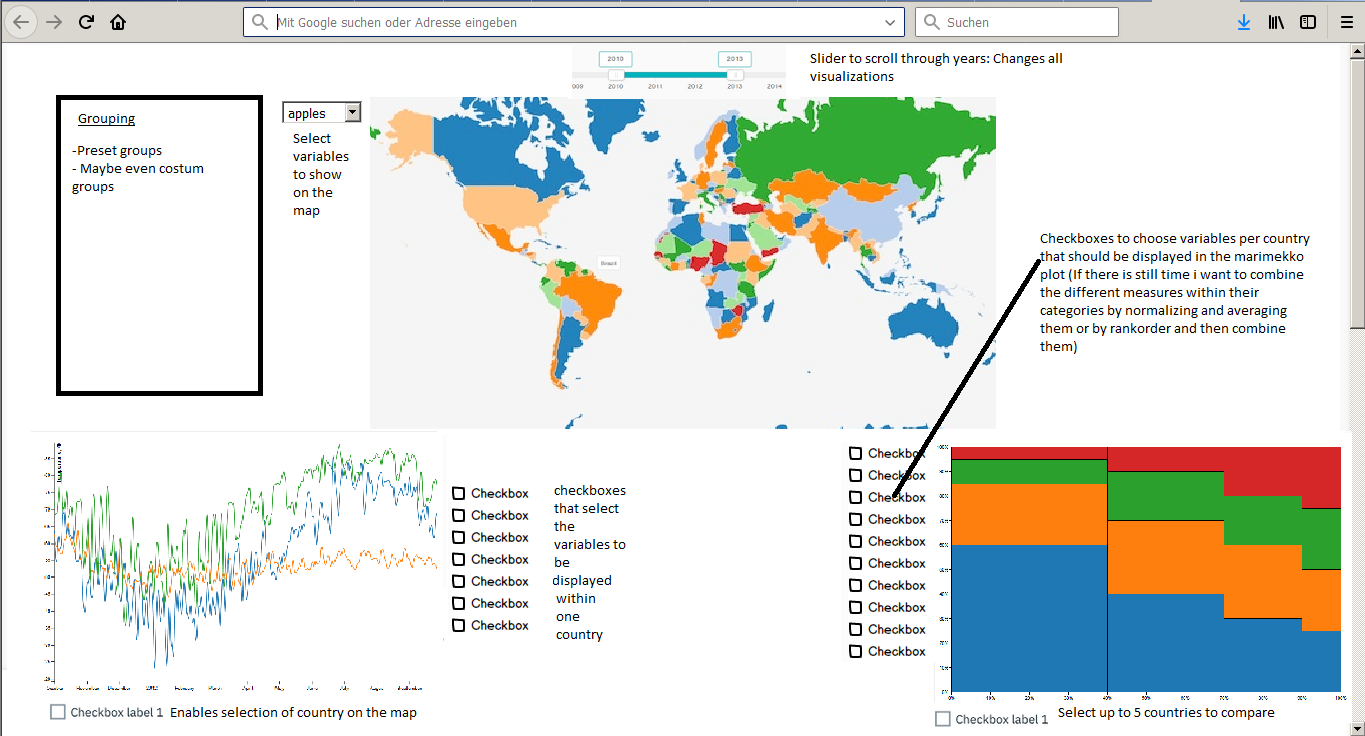
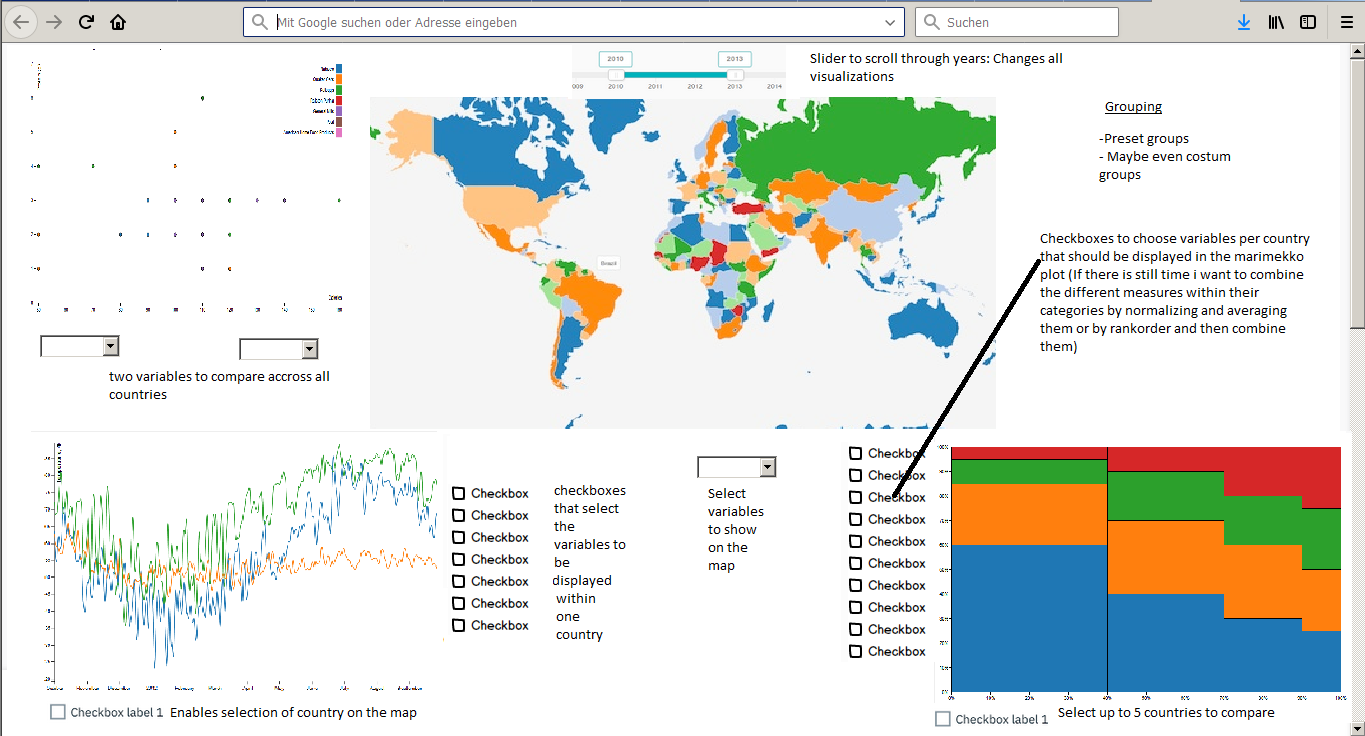
updated readme

diff --git a/README.md b/README.md
@@ -21,6 +21,8 @@ It is also possible to correlate different variables within a country or group c
   - Button to enable selection of up to 5 countries on the map
 
 **Additional:**
+
+4. A scatterplot to correlate variables across all countries
 - Window to group countries in
 - Combine measures
 
